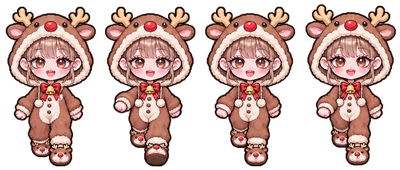
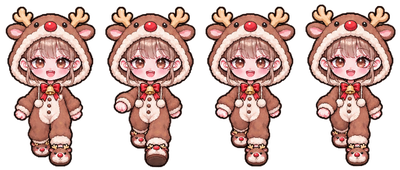
mirage-xmas：PC 走路圖重切，背影和側面的頭不再被切掉
Claude-Session: https://claude.ai/code/session_01PoZRHEHsaDqJAgtUgGQy9T

diff --git a/mirage-xmas/looks.js b/mirage-xmas/looks.js
@@ -1,10 +1,10 @@
 window.ALL_LOOKS=[
-  {id:'look_santa',pc:{"idle":{"src":"assets/pc_santa_idle.png","w":112,"h":169,"n":4},"front":{"src":"assets/pc_santa_front.png","w":108,"h":169,"n":4},"side":{"src":"assets/pc_santa_side.png","w":114,"h":160,"n":4},"back":{"src":"assets/pc_santa_back.png","w":108,"h":165,"n":4},"enter":{"src":"assets/pc_santa_enter.png","w":116,"h":169,"n":4}},name:'紅色聖誕洋裝',tag:'經典可愛',react:[
+  {id:'look_santa',pc:{"idle":{"src":"assets/pc_santa_idle.png","w":112,"h":169,"n":4},"front":{"src":"assets/pc_santa_front.png","w":106,"h":169,"n":4},"side":{"src":"assets/pc_santa_side.png","w":114,"h":169,"n":4},"back":{"src":"assets/pc_santa_back.png","w":98,"h":169,"n":4},"enter":{"src":"assets/pc_santa_enter.png","w":116,"h":169,"n":4}},name:'紅色聖誕洋裝',tag:'經典可愛',react:[
     ['botan','經典款最難穿，妳穿起來剛剛好。今晚第一杯我請。'],
     ['ren','……帽子歪了。'],
     ['mao','哇是聖誕老人！那我的禮物呢？該不會就是妳吧？'],
   ]},
-  {id:'look_reindeer',pc:{"idle":{"src":"assets/pc_reindeer_idle.png","w":94,"h":169,"n":4},"front":{"src":"assets/pc_reindeer_front.png","w":100,"h":170,"n":4},"side":{"src":"assets/pc_reindeer_side.png","w":88,"h":163,"n":4},"back":{"src":"assets/pc_reindeer_back.png","w":102,"h":160,"n":4}},name:'麋鹿睡衣',tag:'搞笑路線',react:[
+  {id:'look_reindeer',pc:{"idle":{"src":"assets/pc_reindeer_idle.png","w":94,"h":169,"n":4},"front":{"src":"assets/pc_reindeer_front.png","w":100,"h":170,"n":4},"side":{"src":"assets/pc_reindeer_side.png","w":92,"h":171,"n":4},"back":{"src":"assets/pc_reindeer_back.png","w":104,"h":171,"n":4}},name:'麋鹿睡衣',tag:'搞笑路線',react:[
     ['botan','麋鹿？妳是來幫我拉雪橇的嗎。可愛到有點想直接把妳帶回家。'],
     ['ren','……噗。……沒事。'],
     ['mao','鼻子紅紅的好可愛！我可以捏一下嗎，一下下就好嘛！'],
@@ -14,7 +14,7 @@ window.ALL_LOOKS=[
     ['ren','……緞帶綁太緊了。會勒。'],
     ['mao','欸欸這套超大膽的耶！牡丹，不准一直盯著看啦！'],
   ]},
-  {id:'look_snow',pc:{"idle":{"src":"assets/pc_snow_idle.png","w":106,"h":169,"n":4},"front":{"src":"assets/pc_snow_front.png","w":108,"h":169,"n":4},"side":{"src":"assets/pc_snow_side.png","w":114,"h":167,"n":4},"back":{"src":"assets/pc_snow_back.png","w":110,"h":166,"n":4},"enter":{"src":"assets/pc_snow_enter.png","w":126,"h":170,"n":4}},name:'白色雪精靈',tag:'清純系',react:[
+  {id:'look_snow',pc:{"idle":{"src":"assets/pc_snow_idle.png","w":106,"h":169,"n":4},"front":{"src":"assets/pc_snow_front.png","w":110,"h":169,"n":4},"side":{"src":"assets/pc_snow_side.png","w":116,"h":171,"n":4},"back":{"src":"assets/pc_snow_back.png","w":106,"h":169,"n":4},"enter":{"src":"assets/pc_snow_enter.png","w":126,"h":170,"n":4}},name:'白色雪精靈',tag:'清純系',react:[
     ['botan','一身白走進這種店，膽子不小。弄髒了可別怪我。'],
     ['ren','……很好看。'],
     ['mao','好像雪娃娃喔！我們要拍合照，現在、立刻！'],
@@ -24,7 +24,7 @@ window.ALL_LOOKS=[
     ['ren','……顏色很吵。……但還行。'],
     ['mao','粉紅色！我們今天撞色了耶，好開心喔！'],
   ]},
-  {id:'look_y2k_hot',pc:{"idle":{"src":"assets/pc_y2k_idle.png","w":104,"h":169,"n":4},"front":{"src":"assets/pc_y2k_front.png","w":110,"h":169,"n":4},"side":{"src":"assets/pc_y2k_side.png","w":104,"h":159,"n":4},"back":{"src":"assets/pc_y2k_back.png","w":100,"h":166,"n":4},"enter":{"src":"assets/pc_y2k_enter.png","w":110,"h":169,"n":4}},name:'Y2K 聖誕辣妹',tag:'辣妹路線',react:[
+  {id:'look_y2k_hot',pc:{"idle":{"src":"assets/pc_y2k_idle.png","w":104,"h":169,"n":4},"front":{"src":"assets/pc_y2k_front.png","w":108,"h":169,"n":4},"side":{"src":"assets/pc_y2k_side.png","w":110,"h":171,"n":4},"back":{"src":"assets/pc_y2k_back.png","w":96,"h":170,"n":4},"enter":{"src":"assets/pc_y2k_enter.png","w":110,"h":169,"n":4}},name:'Y2K 聖誕辣妹',tag:'辣妹路線',react:[
     ['botan','這套我喜歡。等等跟我去包廂坐，讓別桌的客人羨慕一下。'],
     ['ren','……肚子會著涼。外套借妳。'],
     ['mao','好辣喔！妳今天是來跟我搶牡丹的嗎？'],

diff --git a/mirage-xmas/index.html b/mirage-xmas/index.html
@@ -386,12 +386,12 @@ body.mland #cgdiff [data-d]{padding:5px 0}
     </div>
   </section>
 </main>
-<script src="sfx.js?v=11261546"></script>
-<script src="looks.js?v=11261546"></script>
-<script src="memories.js?v=11261546"></script>
-<script src="memory_ui.js?v=11261546"></script>
-<script src="club.js?v=11261546"></script>
-<script src="champagne.js?v=11261546"></script>
+<script src="sfx.js?v=11261603"></script>
+<script src="looks.js?v=11261603"></script>
+<script src="memories.js?v=11261603"></script>
+<script src="memory_ui.js?v=11261603"></script>
+<script src="club.js?v=11261603"></script>
+<script src="champagne.js?v=11261603"></script>
 <script>
 (()=>{
   let cur=0;
